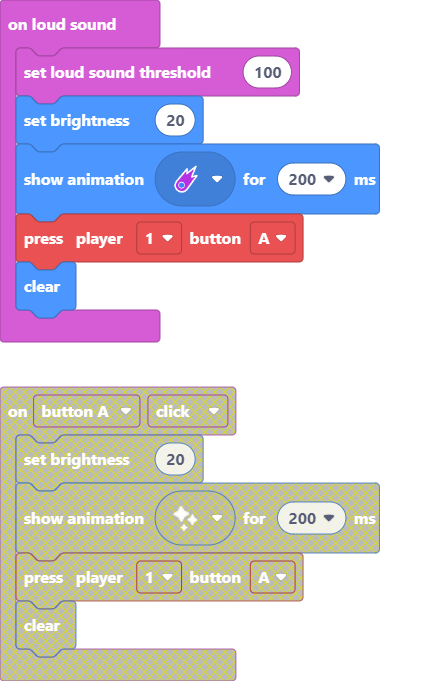
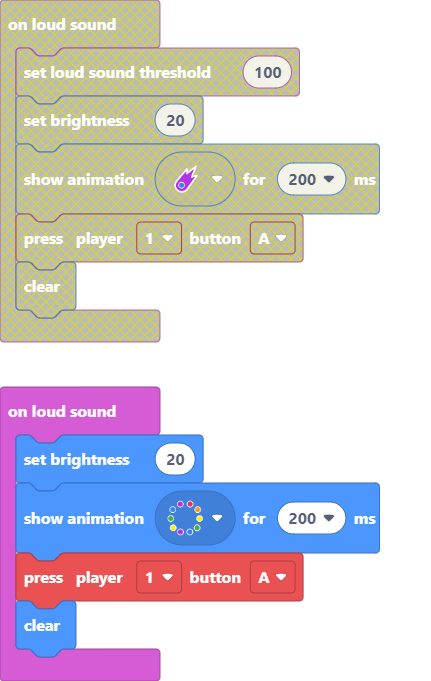
Update main.blocks, main.ts

diff --git a/main.ts b/main.ts
@@ -1,7 +1,6 @@
 input.onLoudSound(function () {
-    input.setLoudSoundThreshold(100)
     light.setBrightness(20)
-    light.showAnimation(light.cometAnimation, 200)
+    light.showAnimation(light.rainbowAnimation, 200)
     makerController.player1.press(ArcadeButton.A)
     light.clear()
 })
